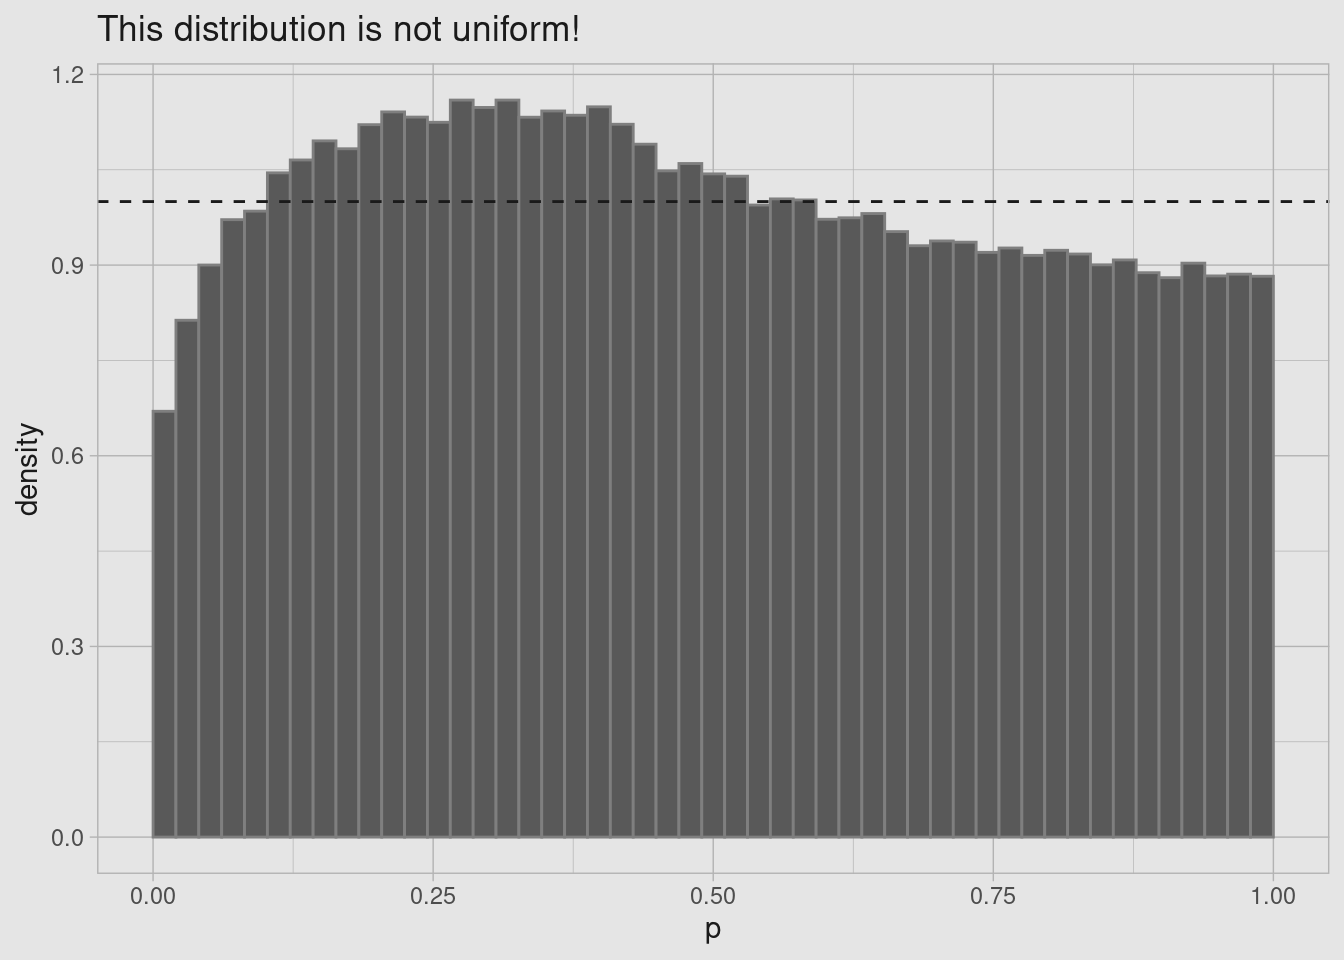
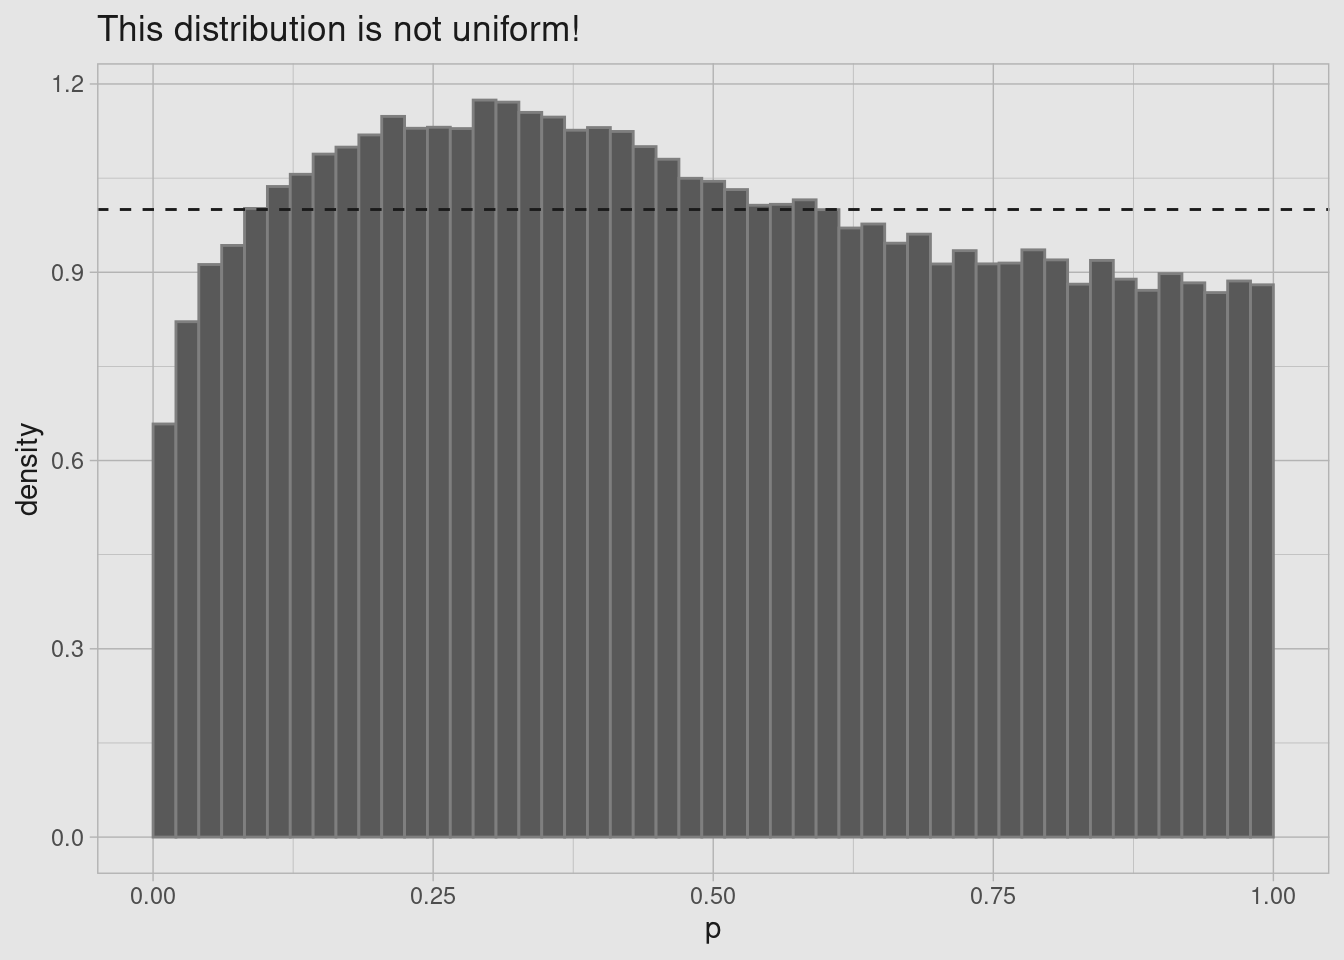
Built site for gh-pages

diff --git a/posts/collapse_is_sick/sick.html b/posts/collapse_is_sick/sick.html
@@ -231,19 +231,19 @@ pre > code.sourceCode > span > a:first-child::before { text-decoration: underlin
 <span id="cb2-6"><a href="#cb2-6" aria-hidden="true" tabindex="-1"></a>val_dt</span></code><button title="Copy to Clipboard" class="code-copy-button"><i class="bi"></i></button></pre></div>
 </details>
 <div class="cell-output cell-output-stdout">
-<pre><code>              g          x
-          &lt;int&gt;      &lt;num&gt;
-      1:      1  3.3554353
-      2:      1 -0.1980068
-      3:      1  1.3703144
-      4:      1 -1.1041755
-      5:      1  1.2150114
-     ---                  
-1799996: 300000  0.4466778
-1799997: 300000  0.4000504
-1799998: 300000  0.3419431
-1799999: 300000 -0.3841842
-1800000: 300000  3.4164000</code></pre>
+<pre><code>              g           x
+          &lt;int&gt;       &lt;num&gt;
+      1:      1 -0.08460379
+      2:      1  0.76900599
+      3:      1 -3.09828899
+      4:      1  0.37445603
+      5:      1 -0.16769057
+     ---                   
+1799996: 300000 -0.18144463
+1799997: 300000  0.33434800
+1799998: 300000 -1.20625276
+1799999: 300000  0.43735380
+1800000: 300000  0.36069760</code></pre>
 </div>
 </div>
 </section>
@@ -330,18 +330,19 @@ pre > code.sourceCode > span > a:first-child::before { text-decoration: underlin
 <pre><code># A tibble: 4 × 5
   expression      min   median `itr/sec` mem_alloc
   &lt;bch:expr&gt; &lt;bch:tm&gt; &lt;bch:tm&gt;     &lt;dbl&gt; &lt;bch:byt&gt;
-1 dplyr         3.63s    3.68s     0.272      50MB
-2 dt_slow       2.97s    3.15s     0.317    12.7MB
-3 dt_fast     83.84ms  83.99ms    11.7      60.9MB
-4 collapse     52.4ms   53.7ms    18.6        29MB</code></pre>
+1 dplyr         3.74s    3.82s     0.262      50MB
+2 dt_slow       3.09s    3.28s     0.305    12.7MB
+3 dt_fast     84.97ms  90.91ms    11.0      60.9MB
+4 collapse    52.19ms   54.3ms    18.2        29MB</code></pre>
 </div>
 </div>
-<p><code>data.table</code> is about 43.8× faster than <code>dplyr</code>, and <code>collapse</code> is 68.5× faster. I think it somehow manages to vectorize the group-wise means / sds, but <em>also</em> use those as inputs to a single call to the internally vectorized <code>stats::pt()</code>.</p>
+<p><code>data.table</code> is about 42× faster than <code>dplyr</code>, and <code>collapse</code> is 70.4× faster. I think it somehow manages to vectorize the group-wise means / sds, but <em>also</em> use those as inputs to a single call to the internally vectorized <code>stats::pt()</code>.</p>
 </section>
 <section id="misc" class="level1">
 <h1>Misc</h1>
 <ul>
 <li>I also tried it in <code>r-polars</code>, which tied with collapse in terms of speed IF you don’t count the conversion to the <code>pl$DataFrame()</code> class. The syntax was <em>horrifying</em>. Plus, the conversion to the <code>pl$DataFrame()</code> class renders many R functions inoperable from what I can tell. It’s almost like you’re not writing R anymore, it feels more like writing a separate language through an R interface.</li>
+<li>I’m also quite smitten with <code>collapse</code>’s three letter aliases to the data frame functions, like <code>smr()</code> instead of <code>summarise()</code> and <code>mtt()</code> over <code>mutate()</code>. I’m lazy and an inaccurate typist, so hitting three keys is easier, faster, and more accurate for me than either typing out the whole name or typing then waiting for the tab-complete dialog. My one wish for an addition to <code>collapse</code> would be an alias of <code>arn()</code> to <code>collapse::roworder()</code>.</li>
 </ul>
 <p>And here’s the distribution I was trying to simulate so I can have a figure on this post. Violating the normality assumptions leads to a non-uniform p-value distribution and miscalibrated statistics, surprise!</p>
 <div class="cell">

diff --git a/index.html b/index.html
@@ -229,7 +229,7 @@ Andrew Ghazi
 </a>
 </div>
 </div>
-<div class="quarto-post image-right" data-index="2" data-categories="R,benchmark" data-listing-date-sort="1701234000000" data-listing-file-modified-sort="1709411804433" data-listing-date-modified-sort="NaN" data-listing-reading-time-sort="7">
+<div class="quarto-post image-right" data-index="2" data-categories="R,benchmark" data-listing-date-sort="1701234000000" data-listing-file-modified-sort="1709412098311" data-listing-date-modified-sort="NaN" data-listing-reading-time-sort="7">
 <div class="thumbnail">
 <p><a href="./posts/collapse_is_sick/sick.html"> <p class="card-img-top"><img src="posts/collapse_is_sick/sick_files/figure-html/unnamed-chunk-6-1.png" alt="A histogram of simulated p-values from the distribution. The distribution is non-uniform (depleted near 0 and 1 with a mode around 0.3), indicating the t-test assumptions are violated."  class="thumbnail-image card-img"/></p> </a></p>
 </div>
